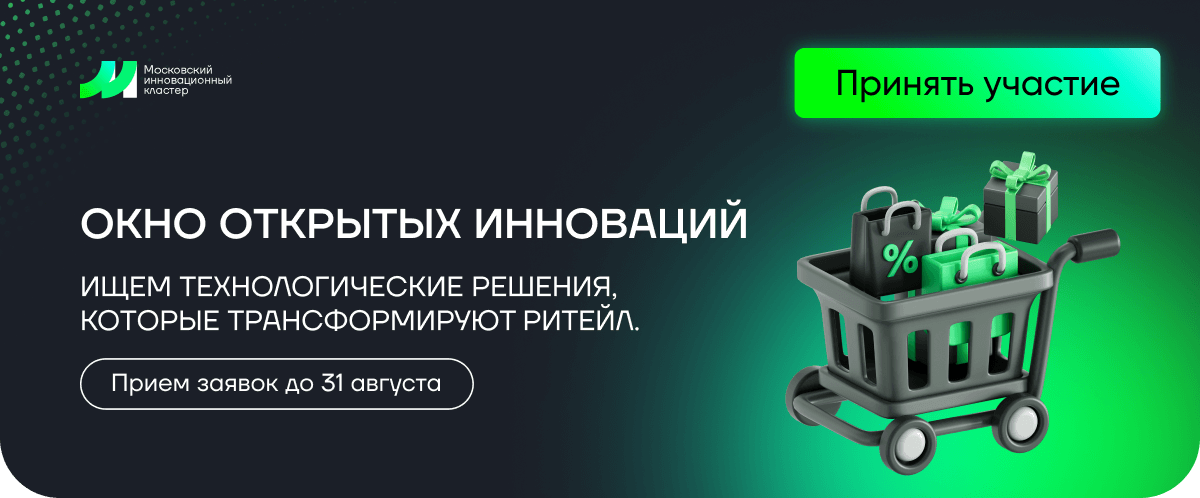
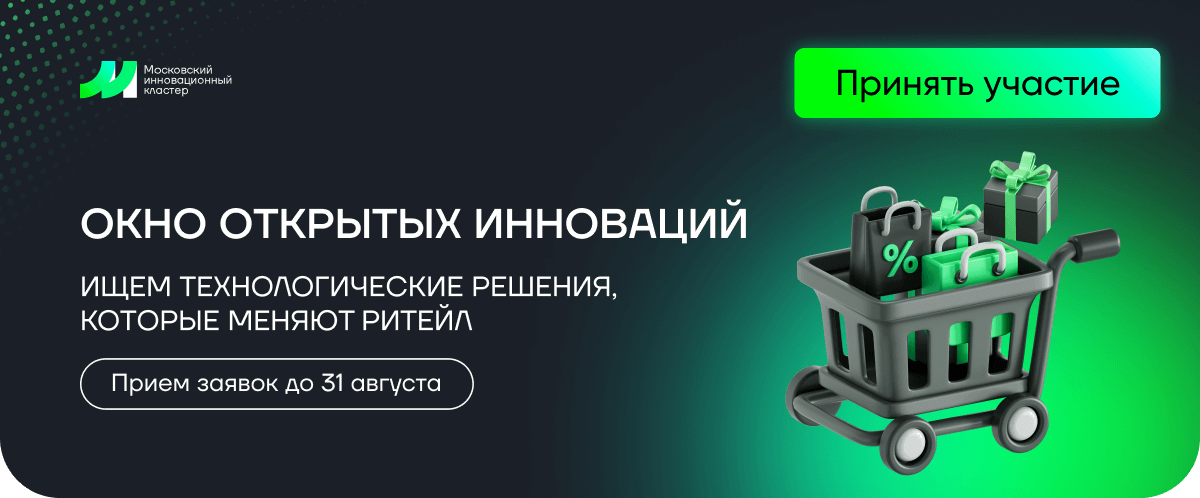
change mik-251

Changed region(s): [[0.185, 0.6024, 0.5242, 0.6627]]

diff --git a/mik-251/Окно открытых инноваций.html b/mik-251/Окно открытых инноваций.html
@@ -103,7 +103,7 @@
                                         <tr>
                                             <td style="width:600px;">
                                                 <a href="https://i.moscow/industry_clusters/contest?utm_source=marketing&utm_medium=email&utm_campaign=digital&utm_content=magnit&utm_term=020725" target="_blank">
-                                                    <img alt="Окно открытых инноваций. Ищем технологические решения, которые трансформируют ритейл. Прием заявок до 31 августа. Нажмите здесь, чтобы принять участие." height="auto" src="https://cp.unisender.com/ru/user_file?resource=images&user_id=5608985&name=mik-251-hero.png" style="border:0;display:block;outline:none;text-decoration:none;height:auto;width:100%;font-size:13px;" width="600" />
+                                                    <img alt="Окно открытых инноваций. Ищем технологические решения, которые меняют ритейл. Прием заявок до 31 августа. Нажмите здесь, чтобы принять участие." height="auto" src="https://cp.unisender.com/ru/user_file?resource=images&user_id=5608985&name=mik-251-hero.png" style="border:0;display:block;outline:none;text-decoration:none;height:auto;width:100%;font-size:13px;" width="600" />
                                                 </a>
                                             </td>
                                         </tr>
@@ -381,7 +381,7 @@
                             <tbody>
                             <tr>
                                 <td align="left" style="font-size:0px;word-break:break-word;padding-top:9px;">
-                                    <div style="font-family: Gilroy, Helvetica, Arial, sans-serif;font-size:16px;font-weight:600;line-height:120%;text-align:left;color:#000000;">Выход на&nbsp;новый рынок и&nbsp;рост бизнеса через масштабную сеть магазинов</div>
+                                    <div style="font-family: Gilroy, Helvetica, Arial, sans-serif;font-size:16px;font-weight:600;line-height:120%;text-align:left;color:#000000;">Выход на&nbsp;новый рынок и&nbsp;рост бизнеса благодаря крупному партнеру из&nbsp;ритейла</div>
                                 </td>
                             </tr>
                             </tbody>
